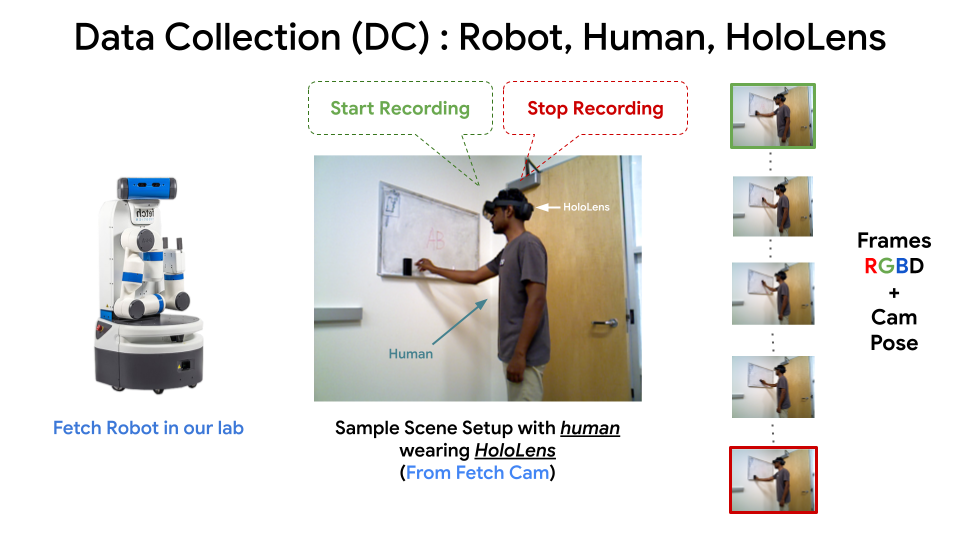
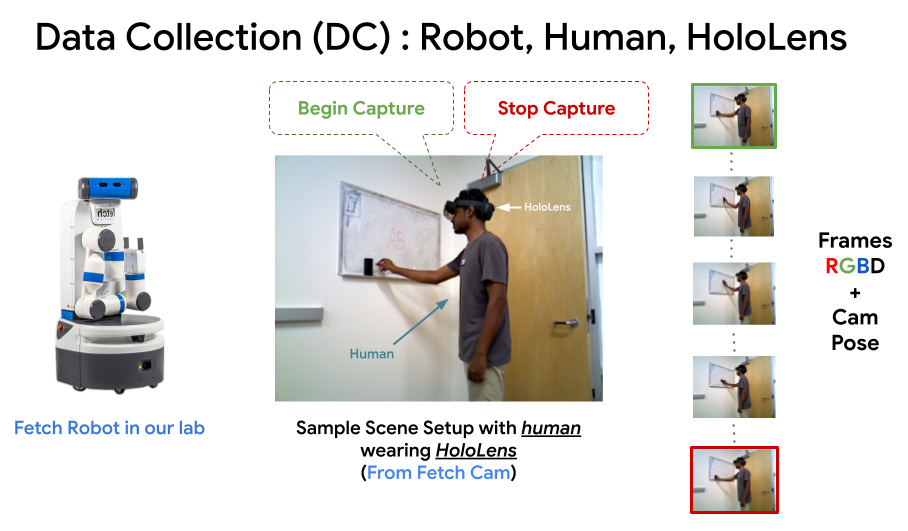
+

diff --git a/dc/README.md b/dc/README.md
@@ -36,10 +36,14 @@ cd $ROOT_DIR
 ### Steps:
 - 1⃣ **Connect to Robot WiFi hotspot.** [📹 Video](../media/hololens/wifi-conn-setup-hololens.mp4)  
 - 2⃣ **Download and install the app on HoloLens2:**  
-   - [⬇ Download app.msix](https://utdallas.box.com/v/iTeachSkills-DataCapture-App).  
-   - Follow [installation guide 🎥](https://www.youtube.com/watch?v=7xFtCPSMTEk).  
+   - [⬇ Download app.msix](https://utdallas.box.com/v/iTeachUOIS-App).  
+   - Follow [sample installation guide 🎥](https://www.youtube.com/watch?v=7xFtCPSMTEk).  
    - *Note:* The app source code is available [here](https://utdallas.box.com/v/iTeachSkills-DataCapture-Code).  
-- 3⃣ (🔜 TODO) A demo video showing user interaction with the app for data collection. (*Hosted on Box due to large size*).  
+- 3⃣ A [sample demo video](https://utdallas.box.com/v/iTeach-Data-Capture-App-Demo) showing user interaction with the app for data collection.
+
+---
+
+🎉 **You're ready to capture data!**
 
 ---
 
@@ -49,7 +53,7 @@ After data capture, the directory structure will look like this:
 
 ```
 ├── data_captured
-    ├── <task-name>-1/
+    ├── <task-name>_1/
         ├── cam_K.txt
         ├── rgb/
             ├── 000000.jpg
@@ -63,10 +67,6 @@ After data capture, the directory structure will look like this:
             ├── 000000.npz
             ├── 000001.npz
             └── ...
-    ├── <task-name>-2/
-    ├── <task-name>-.../
+    ├── <task-name>_2/
+    ├── <task-name>_.../
 ```
-
----
-
-🎉 **You're ready to capture data!**

diff --git a/dc/robot/README.md b/dc/robot/README.md
@@ -4,7 +4,7 @@
 - 💾 Captured data saved in `scripts/data_captured/`
 - 🔁 Supports recording **multiple task demos**:
   - ✅ No need to restart the script each time
-  - ▶ Just **keep it running** until all required tasks are recorded
+  - ▶ Just **keep it running** until all required tasks are captured
 
 ---
 
